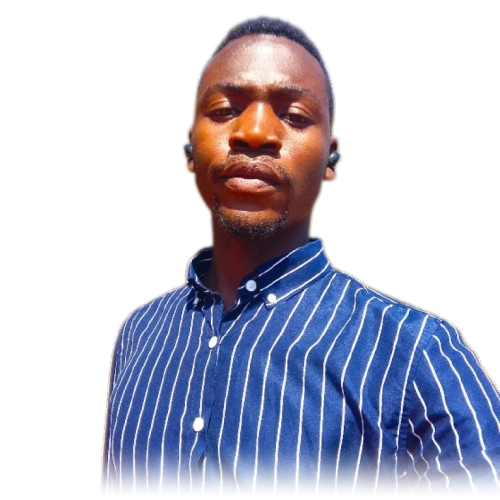
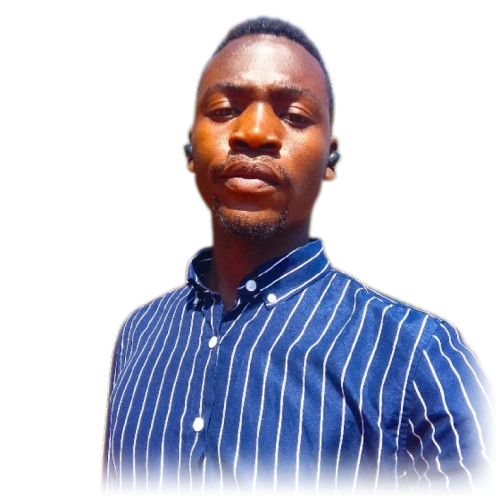
Fade cutout right edge; restore portrait position

Changed region(s): [[0.9, 0.69, 1.0, 0.99]]

diff --git a/src/components/Hero.tsx b/src/components/Hero.tsx
@@ -105,7 +105,7 @@ export function Hero() {
                 <img
                   src="/profile.png"
                   alt="Misheck Champopa"
-                  className="relative z-10 block h-60 w-60 object-contain drop-shadow-[0_18px_50px_rgba(0,0,0,0.45)] sm:h-80 sm:w-80 lg:h-full lg:w-auto lg:translate-x-2"
+                  className="relative z-10 block h-60 w-60 object-contain drop-shadow-[0_18px_50px_rgba(0,0,0,0.45)] sm:h-80 sm:w-80 lg:h-full lg:w-auto"
                 />
               </div>
             </div>
